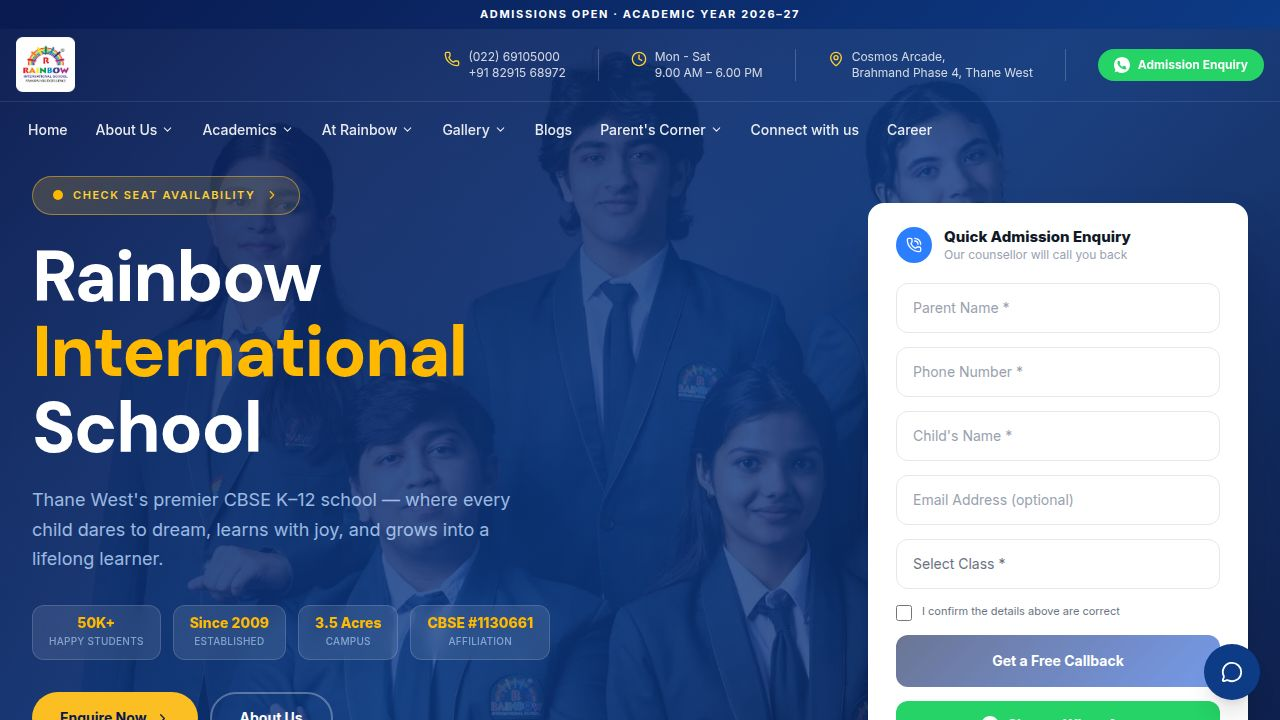
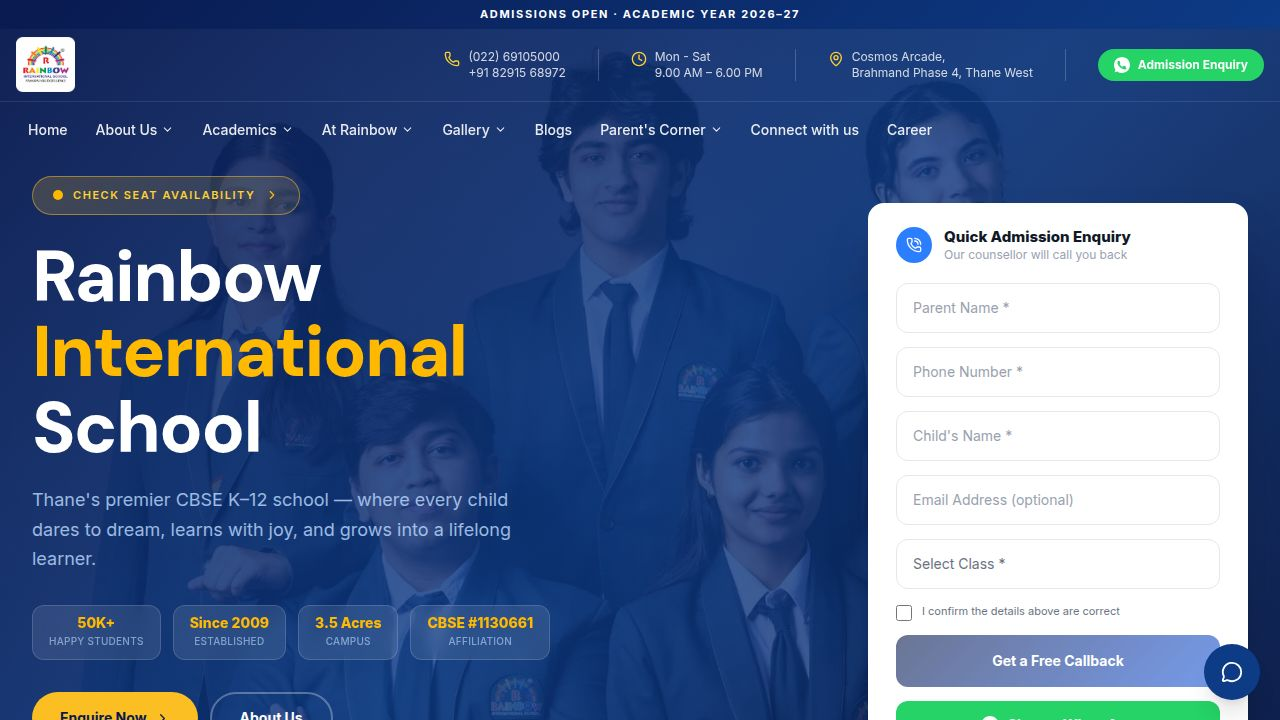
Published your App
Replit-Commit-Author: Deployment
Replit-Commit-Session-Id: 626ee0ab-79e0-4594-8c37-24950af4fe74
Replit-Commit-Checkpoint-Type: full_checkpoint
Replit-Commit-Event-Id: 78c8406f-90ac-4b11-91f8-be1a062539e5
Replit-Commit-Screenshot-Url: https://storage.googleapis.com/screenshot-production-us-central1/3a7e2007-87f6-4891-a5f8-6a34c6a824f7/626ee0ab-79e0-4594-8c37-24950af4fe74/CP8Ff4R
Replit-Commit-Deployment-Build-Id: e9ab7be0-1f34-417e-a3cc-7f3fb5d39887
Replit-Helium-Checkpoint-Created: true

Changed region(s): [[0.0312, 0.6722, 0.4062, 0.7944]]

diff --git a/client/src/components/home/HomeFAQ.tsx b/client/src/components/home/HomeFAQ.tsx
@@ -12,7 +12,7 @@ const faqs = [
   },
   {
     q: "Where is Rainbow International School located in Thane?",
-    a: "Our campus is located at Cosmos Arcade, Brahmand Phase 4, Thane West, Maharashtra 400607. We are centrally situated and easily accessible from Hiranandani Estate, Manpada, Ghodbunder Road, Patlipada, Kavesar, Pokhran Road, and other Thane neighbourhoods.",
+    a: "Our campus is located at Cosmos Arcade, Brahmand Phase 4, Thane, Maharashtra 400607. We are centrally situated and easily accessible from Hiranandani Estate, Manpada, Ghodbunder Road, Patlipada, Kavesar, Pokhran Road, and other neighbourhoods across Thane.",
   },
   {
     q: "How do I apply for admission at Rainbow International School?",
@@ -36,11 +36,11 @@ const faqs = [
   },
   {
     q: "Is Rainbow International the best CBSE school in Thane?",
-    a: "Rainbow International School is consistently recognised as one of the best CBSE schools in Thane. We have received multiple awards for academic excellence, innovative pedagogy, and holistic student development. With a 100% board result in our very first batch, a 3.5-acre campus, and a curriculum that balances academics with sports and the arts, parents across Thane West trust Rainbow as a top choice for quality education.",
+    a: "Rainbow International School is consistently recognised as one of the best CBSE schools in Thane. We have received multiple awards for academic excellence, innovative pedagogy, and holistic student development. With a 100% board result in our very first batch, a 3.5-acre campus, and a curriculum that balances academics with sports and the arts, parents across Thane trust Rainbow as a top choice for quality education.",
   },
   {
-    q: "Is there a good school near me in Thane West?",
-    a: "If you live in or around Thane West — including Brahmand, Hiranandani Estate, Manpada, Ghodbunder Road, Patlipada, Kavesar, Kolshet, or Pokhran Road — Rainbow International School is likely just minutes from your home. Our central location in Brahmand Phase 4 and a network of 30+ bus routes make us one of the most accessible schools in the area.",
+    q: "Is there a good school near me in Thane?",
+    a: "If you live in or around Thane — including Brahmand, Hiranandani Estate, Manpada, Ghodbunder Road, Patlipada, Kavesar, Kolshet, or Pokhran Road — Rainbow International School is likely just minutes from your home. Our central location in Brahmand Phase 4 and a network of 30+ bus routes make us one of the most accessible schools in the area.",
   },
   {
     q: "What makes Rainbow International different from other schools near me?",
@@ -48,7 +48,7 @@ const faqs = [
   },
   {
     q: "How do I find the best school near me for my child in Thane?",
-    a: "When looking for the best school near you in Thane, consider factors like board affiliation, campus infrastructure, extracurricular programmes, teacher quality, and proximity to your home. Rainbow International School checks every box — CBSE-affiliated, award-winning, located centrally in Thane West, and offering Nursery to Class 12 with door-to-door bus transport across the city.",
+    a: "When looking for the best school near you in Thane, consider factors like board affiliation, campus infrastructure, extracurricular programmes, teacher quality, and proximity to your home. Rainbow International School checks every box — CBSE-affiliated, award-winning, located centrally in Thane, and offering Nursery to Class 12 with door-to-door bus transport across the city.",
   },
 ];
 

diff --git a/client/src/pages/Home.tsx b/client/src/pages/Home.tsx
@@ -26,7 +26,7 @@ export default function Home() {
       <SEO
         title="Best CBSE school in thane near me - Rainbow International"
         description="Rainbow International School — best CBSE school in Thane near you. Nursery to Class 12, 3.5-acre campus, 3000+ students. Science, Commerce & Humanities streams. Admissions 2026-27 open."
-        keywords="best CBSE school in Thane near me, CBSE school Thane West, Rainbow International School, best school near me Thane, international school Thane, top CBSE school Thane, school admissions Thane 2026, K-12 school near me Thane West"
+        keywords="best CBSE school in Thane near me, CBSE school Thane, Rainbow International School, best school near me Thane, international school Thane, top CBSE school Thane, school admissions Thane 2026, K-12 school near me Thane"
         canonical="https://rainbowinternationalschool.in/"
         ogImage="https://rainbowinternationalschool.in/wp-content/uploads/2022/09/rainbow-international-school-awards-best-preschool-secondary-school-thane-international-school-ad.jpg"
         jsonLd={{
@@ -37,13 +37,13 @@ export default function Home() {
           "url": "https://rainbowinternationalschool.in",
           "logo": "https://rainbowinternationalschool.in/wp-content/uploads/2024/01/RIS-Logo.png",
           "image": "https://rainbowinternationalschool.in/wp-content/uploads/2022/09/rainbow-international-school-awards-best-preschool-secondary-school-thane-international-school-ad.jpg",
-          "description": "Rainbow International School is a CBSE-affiliated K-12 school in Thane West, Maharashtra. Founded in 2009, serving 3000+ students from Nursery to Class 12.",
+          "description": "Rainbow International School is a CBSE-affiliated K-12 school in Thane, Maharashtra. Founded in 2009, serving 3000+ students from Nursery to Class 12.",
           "foundingDate": "2009-04-01",
           "numberOfEmployees": { "@type": "QuantitativeValue", "value": 200 },
           "address": {
             "@type": "PostalAddress",
             "streetAddress": "Cosmos Arcade, Brahmand Phase 4",
-            "addressLocality": "Thane West",
+            "addressLocality": "Thane",
             "addressRegion": "Maharashtra",
             "postalCode": "400607",
             "addressCountry": "IN"
@@ -75,8 +75,8 @@ export default function Home() {
       <main className="flex-grow" role="main">
         <article itemScope itemType="https://schema.org/School">
           <meta itemProp="name" content="Rainbow International School" />
-          <meta itemProp="description" content="One of the top CBSE-affiliated K-12 schools in Thane West, Maharashtra. Offering world-class education from Nursery to Class 12 with Science, Commerce & Humanities streams." />
-          <meta itemProp="address" content="Cosmos Arcade, Brahmand Phase 4, Thane West, Maharashtra 400607" />
+          <meta itemProp="description" content="One of the top CBSE-affiliated K-12 schools in Thane, Maharashtra. Offering world-class education from Nursery to Class 12 with Science, Commerce & Humanities streams." />
+          <meta itemProp="address" content="Cosmos Arcade, Brahmand Phase 4, Thane, Maharashtra 400607" />
           <meta itemProp="telephone" content="+91 82915 68972" />
           <meta itemProp="url" content="https://rainbowinternationalschool.in" />
           <Hero />

diff --git a/client/src/components/home/Neighbourhood.tsx b/client/src/components/home/Neighbourhood.tsx
@@ -15,7 +15,7 @@ const areas = [
 const features = [
   {
     icon: MapPin,
-    title: "Central Thane West Location",
+    title: "Central Thane Location",
     desc: "Situated in Brahmand Phase 4, easily accessible from all major Thane neighbourhoods and the Mumbai–Ahmedabad highway.",
     color: "#e0edff",
     accent: "#0d3b86",
@@ -56,7 +56,7 @@ export function Neighbourhood() {
             A Top School, Right in Your Neighbourhood
           </h2>
           <p className="text-gray-500 text-base max-w-2xl mx-auto">
-            Located in the heart of Thane West, Rainbow International School is just minutes away from most residential areas — making the daily commute easy for families.
+            Located in the heart of Thane, Rainbow International School is just minutes away from most residential areas — making the daily commute easy for families.
           </p>
         </div>
 
@@ -94,7 +94,7 @@ export function Neighbourhood() {
               ))}
             </div>
             <p className="text-xs text-gray-400 mt-4 leading-relaxed">
-              Cosmos Arcade, Brahmand Phase 4, Thane West 400607 · <Link href="/contact-us" className="underline hover:text-gray-600">Get directions</Link>
+              Cosmos Arcade, Brahmand Phase 4, Thane 400607 · <Link href="/contact-us" className="underline hover:text-gray-600">Get directions</Link>
             </p>
           </div>
         </div>

diff --git a/client/index.html b/client/index.html
@@ -7,7 +7,7 @@
 
     <title>Best CBSE school in thane near me - Rainbow International</title>
     <meta name="description" content="Rainbow International School — best CBSE school in Thane near you. Nursery to Class 12, 3.5-acre campus, 3000+ students. Science, Commerce & Humanities streams. Admissions 2026-27 open." />
-    <meta name="keywords" content="best CBSE school in Thane near me, CBSE school Thane West, Rainbow International School, best school near me Thane, international school Thane, top CBSE school Thane, school admissions Thane 2026" />
+    <meta name="keywords" content="best CBSE school in Thane near me, CBSE school Thane, Rainbow International School, best school near me Thane, international school Thane, top CBSE school Thane, school admissions Thane 2026" />
     <meta property="og:title" content="Best CBSE school in thane near me - Rainbow International" />
     <meta property="og:description" content="Rainbow International School — best CBSE school in Thane near you. Nursery to Class 12, 3.5-acre campus, 3000+ students. Science, Commerce & Humanities streams. Admissions 2026-27 open." />
     <meta property="og:type" content="website" />

diff --git a/client/src/components/home/Hero.tsx b/client/src/components/home/Hero.tsx
@@ -83,7 +83,7 @@ export function Hero() {
             </h1>
 
             <p className="text-blue-200/80 text-base md:text-lg leading-relaxed max-w-lg font-light mb-8">
-              Thane West's premier CBSE K–12 school — where every child dares to dream, learns with joy, and grows into a lifelong learner.
+              Thane's premier CBSE K–12 school — where every child dares to dream, learns with joy, and grows into a lifelong learner.
             </p>
 
             <div className="flex flex-wrap gap-3 mb-8">
@@ -141,7 +141,7 @@ export function Hero() {
             <div className="flex items-center justify-between px-6 py-4 border-b border-gray-100">
               <div>
                 <h2 className="text-lg font-extrabold text-gray-900" style={{ fontFamily: "'DM Sans', sans-serif" }}>Seat Availability — AY 2026–27</h2>
-                <p className="text-xs text-gray-500 mt-0.5">Rainbow International School, Thane West</p>
+                <p className="text-xs text-gray-500 mt-0.5">Rainbow International School, Thane</p>
               </div>
               <button
                 onClick={() => setShowSeats(false)}

diff --git a/client/src/components/layout/Footer.tsx b/client/src/components/layout/Footer.tsx
@@ -134,7 +134,7 @@ export function Footer() {
                 <strong className="text-white/80">World-Class Education, Indian Values.</strong>
               </p>
               <p className="text-white/50 leading-relaxed text-sm mb-8">
-                One of the top CBSE schools in Thane West — where every child dares to dream and becomes a lifelong learner.
+                One of the top CBSE schools in Thane — where every child dares to dream and becomes a lifelong learner.
               </p>
               <p className="text-white/40 text-xs mb-3 font-semibold uppercase tracking-wider">Follow Us</p>
               <div className="flex gap-3">

diff --git a/client/src/components/home/ContactForm.tsx b/client/src/components/home/ContactForm.tsx
@@ -35,7 +35,7 @@ const contactCards = [
   {
     icon: MapPin,
     label: "Our Address",
-    lines: ["Cosmos Arcade, Brahmand Phase 4", "Thane West, Maharashtra"],
+    lines: ["Cosmos Arcade, Brahmand Phase 4", "Thane, Maharashtra"],
     href: "https://maps.google.com/?q=Rainbow+International+School+Thane",
   },
 ];

diff --git a/client/src/components/home/AboutPreview.tsx b/client/src/components/home/AboutPreview.tsx
@@ -13,7 +13,7 @@ const highlights = [
   "CBSE Affiliated (No. 1130661)",
   "Nursery to Class 12",
   "Multiple Intelligence methodology",
-  "3.5-acre green campus in Thane West",
+  "3.5-acre green campus in Thane",
 ];
 
 function formatNum(val: number, decimals?: number, suffix?: string, target?: number): string {
